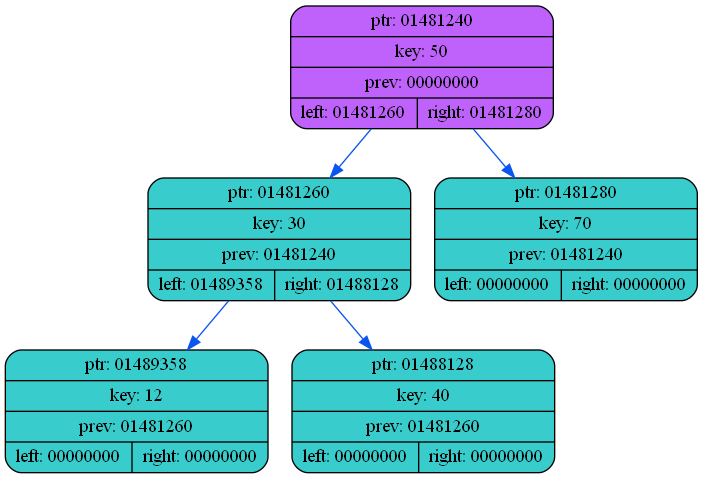
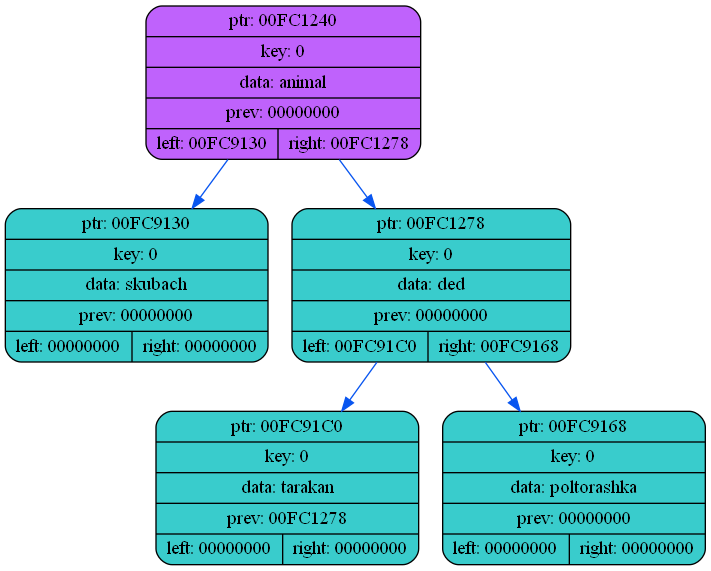
akinator v0.1

diff --git a/list_dump.html b/list_dump.html
@@ -1,7 +1,7 @@
 <pre>
 MEMORY PRINT
-{{30{40}}50{70}}
+{{0}0{0{0}}}
 <img src=data\dump1.png>
 MEMORY PRINT
-{{{12}30{40}}50{70}}
+{{0}0{{0}0{0}}}
 <img src=data\dump2.png>

diff --git a/src/bin_tree.cpp b/src/bin_tree.cpp
@@ -12,24 +12,45 @@ node_t* new_node(int key, node_t* left, node_t* right)
     node -> left  = left;
     node -> right = right;
 
+    scanf("%s", node -> data);
+
     return node;
 }
 
-int add_node(node_t* node, int key)
+int find_node(node_t* node)
 {
-    node_t** temp = NULL;
-    if (node -> key < key) { temp = &node -> right; }
-    else                   { temp = &node -> left;  }
+    fprintf(stdout, "%s?\n", node -> data);
 
-    if (*temp) { add_node(*temp, key); }
+    char ans = 0;
+
+    node_t** temp = NULL;
+    while (true)
+    {
+        fscanf(stdin, "%c", &ans);
+        clean_input_buff();
+        if      (ans == 'Y') { temp = &node -> right; break; }
+        else if (ans == 'N') { temp = &node -> left;  break; }
+        else {printf("Unknown symbol: %c(%d)\nOnly Y and N are accepted as answers\n", ans, ans);}
+    }
+
+    printf("temp: %p", *temp);
+
+    /*if ((*temp) -> left == NULL && ((*temp) -> right) == NULL)
+    {
+        printf("It is %s, right?\n", (*temp) -> data);
+        return 0;
+    }*/
+    if (*temp) { find_node(*temp); }
     else
     {
-        *temp = new_node(key, NULL, NULL);
+        printf("No such item yet\n"
+               "What is it?\n");
+        *temp = new_node(0, NULL, NULL);
         if (!*temp) { fprintf(stderr, "ERROR: ADDITION FIALED on node [%p]\n", node);  return -1;}
         (*temp) -> prev = node;
     }
 
-    return 0;
+    return -1;
 }
 
 int print_tree(node_t* node, FILE* stream)

diff --git a/src/tree_dump.cpp b/src/tree_dump.cpp
@@ -82,13 +82,13 @@ int write_node_info(node_t* node, FILE* fp, node_t* curr)
 
     if (node == curr)
     {
-        fprintf(fp, "    node%p[shape=record,style=\"rounded,filled\",fillcolor=\"#BF62FC\",label=\"{ ptr: %p | key: %d | prev: %p| { left: %p | right: %p }}\"];\n",
-                node, node, node -> key, node -> prev, node -> left, node -> right);
+        fprintf(fp, "    node%p[shape=record,style=\"rounded,filled\",fillcolor=\"#BF62FC\",label=\"{ ptr: %p | key: %d | data: %s| prev: %p| { left: %p | right: %p }}\"];\n",
+                node, node, node -> key, node -> data, node -> prev, node -> left, node -> right);
     }
     else
     {
-        fprintf(fp, "    node%p[shape=record,style=\"rounded,filled\",fillcolor=\"#39CCCC\",label=\"{ ptr: %p | key: %d | prev: %p | { left: %p | right: %p }}\"];\n",
-                node, node, node -> key, node -> prev, node -> left, node -> right);
+        fprintf(fp, "    node%p[shape=record,style=\"rounded,filled\",fillcolor=\"#39CCCC\",label=\"{ ptr: %p | key: %d | data: %s| prev: %p | { left: %p | right: %p }}\"];\n",
+                node, node, node -> key, node -> data, node -> prev, node -> left, node -> right);
     }
 
     if (node -> left)

diff --git a/src/main.cpp b/src/main.cpp
@@ -7,15 +7,18 @@ int main()
     if (html_stream == NULL)
         return -1;
 
-    node_t* root = new_node(50, NULL, NULL);
+    node_t* root = new_node(0, NULL, NULL);
     if (!root) {return -1;}
-    add_node(root, 30);
-    add_node(root, 70);
-    add_node(root, 40);
+    printf("got here\n");
+    root -> right = new_node(0, NULL, NULL);
+    root -> left  = new_node(0, NULL, NULL);
 
-    print_tree(root, stdout);
+    printf("got here\n");
+    (root -> right) -> left = new_node(0, NULL, NULL);
+
     tree_dump(root, html_stream, root);
-    add_node(root, 12);
+    find_node(root);
+
     tree_dump(root, html_stream, root);
 
     tree_dtor(root);

diff --git a/headers/bin_tree.h b/headers/bin_tree.h
@@ -9,7 +9,7 @@
 
 struct node_t {
     int key;
-    void* data;
+    char data[32];
     node_t* left;
     node_t* right;
     node_t* prev;
@@ -17,9 +17,15 @@ struct node_t {
 
 
 node_t* new_node(int data, node_t* left, node_t* right);
-int add_node(node_t* node, int data);
+int find_node(node_t* node);
 int print_tree(node_t* node, FILE* stream);
 
 int tree_dtor(node_t* node);
+
+inline void clean_input_buff()
+{
+    while (getchar() != '\n')
+        continue;
+}
 
 #endif
